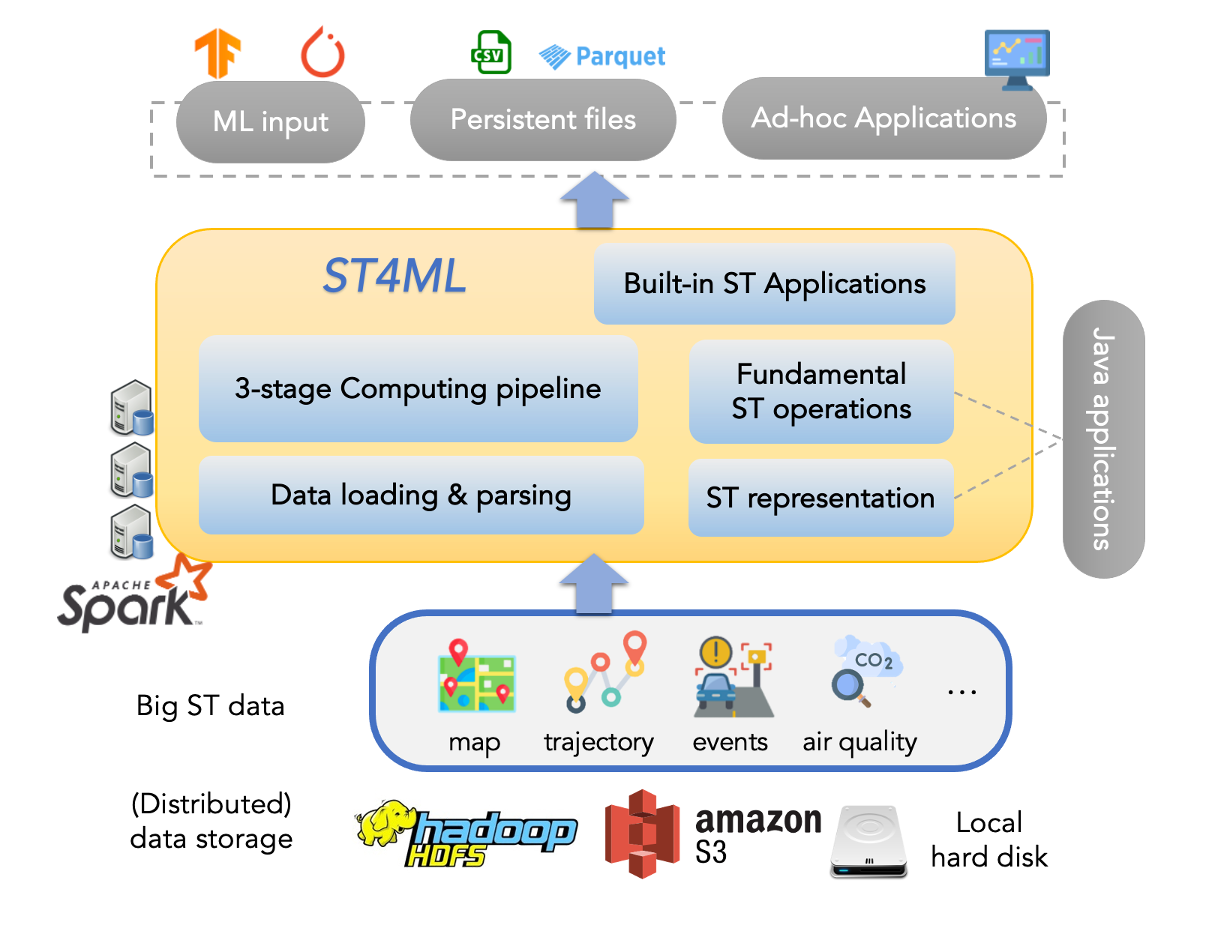
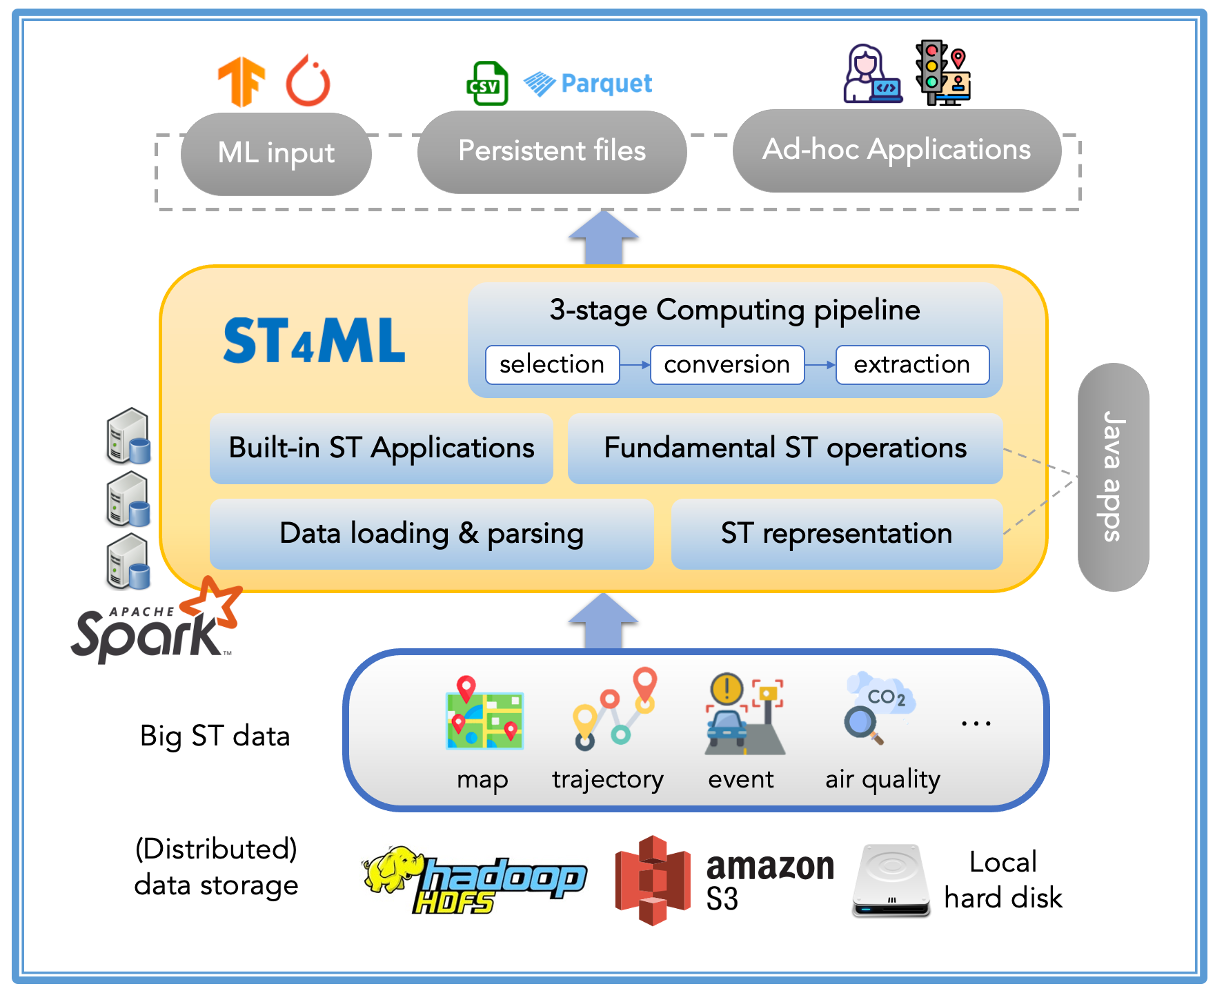
readme

diff --git a/README.md b/README.md
@@ -1,5 +1,16 @@
 # ST4ML: Machine Learning Oriented Spatio-Temporal Data Processing at Scale
 
+
+[Overview](#overview)
+
+[Quick Start](#quick-start)
+
+[Core Techniques](#core-techniques)
+
+[Next Step](#next-step)
+
+[References](#references)
+
 ## Overview
 
 ![Overview of ST4ML](docs/overview.png)
@@ -14,13 +25,13 @@ Specifically, ST4ML provides:
 - Fundamental operation over spatial and ST objects (e.g., event, trajectory and raster)
 - Abundant feature extraction functions (e.g., map matching, trajectory speed extraction, and anomaly events extraction)
 
-## Quick start
+## Quick Start
 ### Local environment setup
-To test the first ST4ML application without a Spark cluster deployed, please follow the instruction to set 
+To test the first ST4ML application without a Spark cluster established, please follow the instruction to set 
 up the single-machine environment:
 
 Download the latest Spark from https://spark.apache.org/downloads.html and unzip it
-```aidl
+```
 tar zxvf spark-3.3.0-bin-hadoop3.tgz 
 ```
 
@@ -48,7 +59,49 @@ Processing 23 events
 Extracted 0 abnormal events occurring during 23 to 4.
 2 examples: 
 ```
-## Core techniques
+
+### Programming with ST4ML
+#### Example background
+Dividing an urban area into grids, researchers take historical traffic speeds of each grid cell to train an ML model and predict the future speeds. 
+The model input is usually formulated as a sequence of 2-d matrices, where a matrix records the traffic speeds of the grids at a given time, 
+and each element of the matrix is the average speed of a grid cell. 
+Since the actual traffic speed (across the grids and time slots) is often not directly 
+available, researchers need to derive them from other attainable data, such as the trajectories of individual vehicles.
+
+
+#### Essential code
+// TODO refine this code
+
+```scala
+// define inputs
+val raster =  ReadRaster(rasterFile)
+val dataDir = "./datasets/"
+val sQuery = Extent().toPolygon
+val tQuery = Duration()
+// initialize operators
+val selector = Selector[STTraj](sQuery, tQuery, n = 100)
+val converter = Traj2RasterConverter(raster)
+val extractor = RasterSpeedExtractor(unit = "kmh")
+// execute the application
+val trajRDD = selector.select(dataDir)
+val rasterRDD = converter.convert(trajRDD)
+val speedRDD = extractor.extract(rasterRDD)
+// save results
+saveCSV(speedRDD, resDir)
+```
+The helper function `ReadRaster` reads the raster structure from a CSV file (each line has fields shape, t_min and t_max) into `Array[Polygon]` and `Array[Duration]` for conversion.
+The three operators are initiated in lines 7-9. In line 7, `STTraj` indicates that the original data type is trajectory, while
+`sQuery` and `tQuery` specify the spatial and temporal range of interest. `n` specifies the number of partitions, i.e., the parallelism of the application.
+For this feature extraction task, the most suitable data representation is raster, so a `Traj2Raster` converter is initiated as in line 8.
+Last, ST4ML's built-in `RasterSpeedExtractor` is invoked.
+After defining the operators, their execution functions are called in sequence. 
+In line 10, the path to the trajectory data directory is passed to the selector, 
+and subsequently the resulting RDDs are passed to the converter and extractor 
+as a pipeline (lines 11-12). The final results are saved as CSV files with the `saveCSV` helper function.
+
+The complete example can be found at 'src/main/scala/examples/RasterSpeedExample.scala'. TODO
+
+## Core Techniques
 The figure below plots the main components of ST4ML's _three-stage pipeline_ abstraction.
 
 ![Core techniques](docs/st4ml-internal.png?raw=true "Three-stage pipeline")
@@ -58,32 +111,41 @@ In the **Selection** stage, ST4ML retrieves an in-memory subset from gigantic
 on-disk ST data according to specified ST constraints. 
 ST datasets are of large scale while ML applications are often applied to a portion 
 of them. Loading all data into memory leads to a waste of memory and computation. 
-A _persistent metadata_ scheme is proposed, which groups and indexes on-disk 
+A <ins>persistent metadata</ins> scheme is proposed, which groups and indexes on-disk 
 ST data so only partial data are loaded into memory while the ST locality is 
-preserved. _In-memory indexing_ is implemented for faster selection 
-and multiple _ST-partitioners_ are also proposed to achieve ST-aware load balance 
+preserved. <ins>In-memory indexing</ins> is implemented for faster selection 
+and multiple <ins>ST-partitioners</ins> are also proposed to achieve ST-aware load balance 
 during distributed computations. 
 
-In the **Conversion** stage, ST4ML describes ST data with five ST instances: 
+In the **Conversion** stage, ST4ML describes ST data with <ins>five ST instances</ins>:
 _event_, _trajectory_, _time series_, _spatial map_, and _raster_. 
 These instances provide representative abstractions of ST data and are suitable 
 for different feature extraction applications. 
-Efficient _index-based conversions_ among the five ST instances are supported in ST4ML. 
+Efficient conversions among the five ST instances are supported in ST4ML. 
 The original ST data as one instance can be converted to the most appropriate 
 instance according to the nature of the ML applications. 
-Specific optimizations are designed to speed up expensive conversions and benefit 
+Specific <ins>R-tree-based</ins> optimizations are designed to speed up expensive conversions and benefit 
 the computation pipeline. 
 
 In the **Extraction** stage, ST4ML takes user-specified feature extraction 
-functions and executes them in parallel. To provide different levels of 
-flexibility, ST4ML _pre-builds common extraction functions, supports users to 
+functions and executes them in parallel. To provide different levels of
+<ins>flexibility</ins>, ST4ML _pre-builds common extraction functions, supports users to 
 embed logics with instance-level APIs, as well as allows direct manipulation of RDDs._ 
 
 Such a paradigm transforms the ML feature extraction problem into scalable 
 distributed executions, and thus makes the best use of the underlying distributed computing platform.
 
+We list the supported technique and operations:
 
-## Next step
+|                        <span>       |     <span>                                                                                      |     
+|--------------------------------|---------------------------------------------------------------------------------------------------------|
+|           ST instances           |Event, Trajectory, Time Series, Spatial Map, Raster                            |
+|          ST Partitioners         |                                   Hash, STR, T-STR, Quad-tree, T-balance                                  |
+|            ST Indexers           |                                           (1-d, 2-d, 3-d) R-tree                                          |
+|       Input ST data format       |                                              CSV+WKT, OSM map                                             |
+| Build-in extraction applications | EventAnomalyExtractor, EventCompanionExtractor, EventClusterExtractor, TrajSpeedExtractor, TrajOdExtractor, TrajStayPointExtractor, TrajTurningExtractor, TrajCompanionExtractor, TsFlowExtractor, TsSpeedExtractor, TsWindowFreqExtractor, SmFlowExtractor, SmSpeedExtractor, SmTransitExtractor, RasterFlowExtractor, RasterSpeedExtractor RasterTransitExtractor                                         |
+
+## Next Step
 Please refer to the following documentation for a thorough guide on using ST4ML.
 
 - API for Data I/O, main computation abstraction
@@ -92,6 +154,7 @@ Please refer to the following documentation for a thorough guide on using ST4ML.
 
 ## References
 
+Please cite our paper if you find ST4ML useful in your research.
 
 
 
